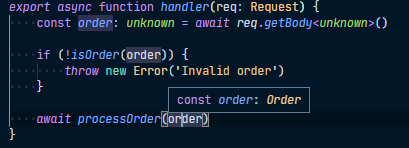
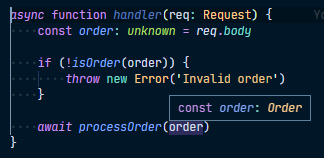
Simplify request

diff --git a/src/simple-type-validation.ts b/src/simple-type-validation.ts
@@ -1,18 +1,17 @@
 import { Order } from './order-types'
-import { arrayOf, objectOf } from '@altostra/type-validations'
-import { any, string } from '@altostra/type-validations/lib/primitives'
+import { arrayOf, objectOf, primitives } from '@altostra/type-validations'
 
 interface Request {
-    getBody: <T>() => Promise<T>
+    body: any
 }
 
 const isOrder = objectOf({
-    address: string,
-    servings: arrayOf(any),
+    address: primitives.string,
+    servings: arrayOf(primitives.any),
 })
 
 export async function handler(req: Request) {
-    const order: unknown = await req.getBody<unknown>()
+    const order: unknown = req.body
 
     if (!isOrder(order)) {
         throw new Error('Invalid order')

diff --git a/src/final-type-validation.ts b/src/final-type-validation.ts
@@ -2,11 +2,11 @@ import { Order } from './order-types'
 import { isOrder } from './validations'
 
 interface Request {
-    getBody: <T>() => Promise<T>
+    body: any
 }
 
 export async function handler(req: Request) {
-    const order: unknown = await req.getBody<unknown>()
+    const order: unknown = req.body
 
     if (!isOrder(order)) {
         throw new Error('Invalid order')

diff --git a/src/simple-type-guard.ts b/src/simple-type-guard.ts
@@ -1,11 +1,11 @@
 import { Order } from './order-types'
 
 interface Request {
-    getBody: <T>() => Promise<T>
+    body: any
 }
 
 export async function handler(req: Request) {
-    const order = await req.getBody<unknown>()
+    const order: unknown = req.body
 
     if (!isOrder(order)) {
         throw new Error('Invalid order')
